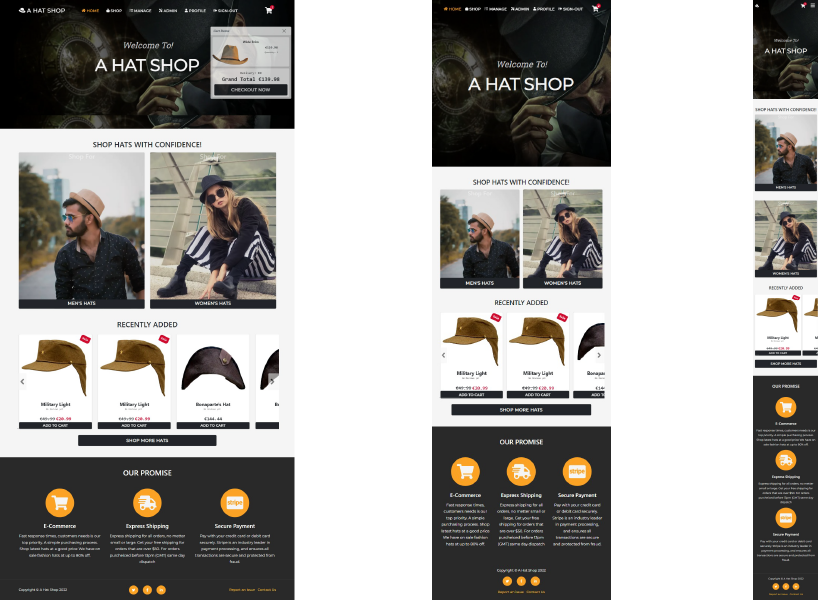
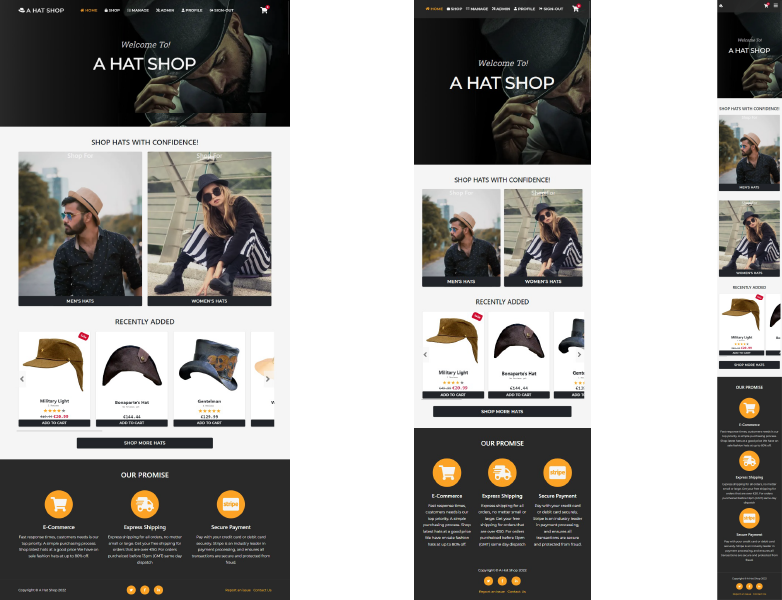
Added new home page layout and google lighthouse results | Added bigger toast shadowa

diff --git a/templates/base.html b/templates/base.html
@@ -58,7 +58,7 @@
     {% if not request.get_full_path == '/cart/' and cart_items and not request.get_full_path == '/checkout/' %}
     <div aria-live="polite" aria-atomic="true">
         <div class="toast-container position-fixed end-0 p-3">
-            <div id="cart_toast" class="toast d-none align-items-center bg-white rounded-3 shadow-sm border-0" role="alert"
+            <div id="cart_toast" class="toast d-none align-items-center bg-white rounded-3 shadow border-0" role="alert"
                 aria-live="assertive" aria-atomic="true">
                 <div class="toast-header rounded-3">
                     <span class="text-italic fw-bolder">Cart Items</span>
@@ -77,7 +77,7 @@
     {% if user_messages %}
     <div aria-live="polite" aria-atomic="true">
         <div class="toast-container position-fixed end-0 p-3">
-            <div id="message-toast" class="toast d-none align-items-center bg-white rounded-3 shadow-sm border-0" role="alert"
+            <div id="message-toast" class="toast d-none align-items-center bg-white rounded-3 shadow border-0" role="alert"
                 aria-live="assertive" aria-atomic="true">
                 <div class="toast-header rounded-3">
                     <span class="text-italic fw-bolder">New Spport messages</span>
@@ -126,17 +126,17 @@
     <!-- Bootstrap core JS-->
     <script src="https://cdn.jsdelivr.net/npm/bootstrap@5.1.3/dist/js/bootstrap.bundle.min.js"></script>
     <!-- Core theme JS-->
-    <script type="text/javascript" src="{% static 'js/base.js' %}"></script>
+    <script src="{% static 'js/base.js' %}"></script>
     <!-- Custom Form Control -->
-    <script type="text/javascript" src="{% static 'js/forms.js' %}"></script>
+    <script src="{% static 'js/forms.js' %}"></script>
     <!-- ustom Cart Toast control -->
     {% if cart_items %}
     <!-- cart toast hower script -->
-    <script type="text/javascript" src="{% static 'js/cart.js' %}"></script>
+    <script src="{% static 'js/cart.js' %}"></script>
     {% endif %}
     {% if user_messages %}
     <!-- Support Mesages toast script-->
-    <script type="text/javascript" src="{% static 'js/messages.js' %}"></script>
+    <script src="{% static 'js/messages.js' %}"></script>
     {% endif %}
 
     <!-- Postload JavaScript content block -->

diff --git a/templates/includes/toasts/message.html b/templates/includes/toasts/message.html
@@ -5,7 +5,7 @@
         {% with message.level as level %}
 
         {% if level == 40 %}
-        <div class="toast show align-items-center rounded-3 bg-white text-white shadow-sm border-0" role="alert"
+        <div class="toast show align-items-center rounded-3 bg-white text-white shadow border-0" role="alert"
             aria-live="assertive" aria-atomic="true">
 
             <div class="toast-header rounded-3">
@@ -20,7 +20,7 @@
         </div>
 
         {% elif level == 30 %}
-        <div class="toast bg-white show align-items-center rounded-3 text-white shadow-sm border-0" role="alert"
+        <div class="toast bg-white show align-items-center rounded-3 text-white shadow border-0" role="alert"
             aria-live="assertive" aria-atomic="true">
 
             <div class="toast-header rounded-3">
@@ -34,7 +34,7 @@
         </div>
 
         {% elif level == 25 %}
-        <div class="toast show align-items-center bg-white rounded-3 shadow-sm border-0" role="alert" aria-live="assertive"
+        <div class="toast show align-items-center bg-white rounded-3 shadow border-0" role="alert" aria-live="assertive"
             aria-atomic="true">
 
             <div class="toast-header rounded-3">
@@ -53,7 +53,7 @@
         </div>
 
         {% else %}
-        <div class="toast show align-items-center rounded-3 bg-white text-white shadow-sm border-0" role="alert"
+        <div class="toast show align-items-center rounded-3 bg-white text-white shadow border-0" role="alert"
             aria-live="assertive" aria-atomic="true">
 
             <div class="toast-header rounded-3">

diff --git a/support/templates/messages/messages.html b/support/templates/messages/messages.html
@@ -21,11 +21,14 @@
             <div class="mb-2">
                 <span class="text-muted small text-italic ">{{ issue }}</span> <br>
                 <span class="text-muted time text-italic ">Order # {{ issue.order.order_number }}</span> <br>
+
+                <!-- If issue is produvt show orderline -->
                 {% if issue.order_line %}
                 <span class="p-0 text-muted time text-italic">Product: {{ issue.order_line }}</span>
                 {% endif %}
             </div>
- 
+
+            <!-- Current issue status -->
             {% if issue.status == 'Resolved' %}
             <p class="m-0 text-success fw-bolder small font-monospace">Ticket Status: {{ issue.status }}</p>
             {% else %}
@@ -35,7 +38,7 @@
                 {% for message in thread_messages %}
 
                 {% if message.user.is_superuser %}
-
+                <!-- Admin messages -->
                 <div class="rounded p-3">
                     <span class="m-0 fw-bolder text-muted text-italic text-capitalize small">{{ message.user.username }}
                     </span> <br>
@@ -45,10 +48,8 @@
                         <p class="message mb-0 font-monospace small">{{ message.message }}</p>
                     </div>
                 </div>
-
-
                 {% else %}
-
+                <!-- User messages -->
                 <div class="rounded p-3">
                     <span class="m-0 fw-bolder text-muted text-italic text-capitalize small">{{ message.user.username }}
                     </span> <br>

diff --git a/support/templates/support/submit.html b/support/templates/support/submit.html
@@ -11,7 +11,7 @@
 {% endblock %}
 {% block content %}
 
-<!-- Product Detail section-->
+<!-- Submit support ticket -->
 <section class="page-section">
 
     <div class="container">
@@ -23,11 +23,13 @@
                 novalidate>
                 {% csrf_token %}
 
+                <!-- Sellect issue field -->
                 {{ form.issue | as_crispy_field }}
 
                 <div id="sellect-product-group" id class="d-none">
                     <label for="sellect-product">Select Product</label>
 
+                    <!-- If product issue show this sellect field -->
                     <select id="sellect-product" name="product" class="select form-control mb-2  fw-bolder">
 
                         <option selected value="">Select Product</option>
@@ -39,6 +41,7 @@
                     </select>
                 </div>
 
+                <!-- Message field -->
                 <div class="fw-bolder font-monospace">
                     {{ form.message | as_crispy_field }}
                 </div>

diff --git a/support/templates/support/contact.html b/support/templates/support/contact.html
@@ -11,12 +11,14 @@
 {% endblock %}
 {% block content %}
 
-<!-- Product Detail section-->
+<!-- Contact email page -->
 <section class="page-section">
     <div class="container">
         <div class="w-container mx-auto">
             <h2 class="text-capitalize"><i class="fas fa-paper-plane"></i> Contact Us</h2>
             <p class="text-muted text-italic">Leave us a message</p>
+
+            <!-- Contact form -->
             <form id="contactForm" class="needs-validation" action="{% url 'contact_view' %}" novalidate method="POST">
                 {% csrf_token %}
 
@@ -61,6 +63,7 @@
                         Message</button></div>
             </form>
 
+            <!-- If user is authenticated show support page link -->
             {% if request.user.is_authenticated %}
             <p class="text-muted text-italic mt-2">
                Or <a class="mt-2" href="{% url 'support' %}">

diff --git a/support/templates/includes/message-toast.html b/support/templates/includes/message-toast.html
@@ -1,5 +1,7 @@
+
+<!-- Support messages toast --> 
 {% if user_messages %}
-<div class="cart-conteiner small-font mb-2 pb-2 shadow-sm rounded-3 bg-white align-items-center">
+<div class="cart-conteiner small-font mb-2 pb-2 shadow rounded-3 bg-white align-items-center">
 
     <!-- Product Description -->
     <div class="col-12">
@@ -21,7 +23,7 @@
 
     </div>
     <div class="col-12 text-center">
-        <a class="btn btn-dark" href="{% url 'messages_view' message.thread.id %}?unread=False">Go to
+        <a class="btn btn-dark w-100" href="{% url 'messages_view' message.thread.id %}?unread=False">Go to
             Messages</a>
     </div>
 

diff --git a/support/templates/support/support.html b/support/templates/support/support.html
@@ -10,14 +10,14 @@
 {% endblock %}
 {% block content %}
 
-<!-- Product Detail section-->
+<!-- General support page -->
 <section class="page-section">
 
     <div class="container">
         <div class="w-container mx-auto">
             <h2 class="text-capitalize"><i class="fas fa-file-signature"></i> Report</h2>
             <p class="text-muted text-italic p-0 m-0">Report a Problem</p>
-
+            <!-- Support form -->
             <form id="support-form" action="{% url 'support' %}" class="form" method="POST" novalidate>
                 {% csrf_token %}
 

diff --git a/home/templates/home/index.html b/home/templates/home/index.html
@@ -94,11 +94,11 @@
 {% endblock %}
 {% block postloadjs %}
 <!-- Custom parallax effects -->
-<script type="text/javascript" src="{% static 'js/parallax.js' %}"></script>
+<script src="{% static 'js/parallax.js' %}"></script>
 
 <!-- Scroll horisontal -->
-<script type="text/javascript" src="{% static 'js/scroll-x.js' %}"></script>
+<script src="{% static 'js/scroll-x.js' %}"></script>
 
 <!-- Scroll position -->
-<script type="text/javascript" src="{% static 'js/scroll-pos.js' %}"></script>
+<script src="{% static 'js/scroll-pos.js' %}"></script>
 {% endblock %}

diff --git a/a_hat_shop/urls.py b/a_hat_shop/urls.py
@@ -17,7 +17,8 @@ from django.contrib import admin
 from django.urls import path, include
 from django.conf import settings
 from django.conf.urls.static import static
-from django.conf.urls import handler400, handler403, handler404, handler500
+from django.conf.urls import handler400,\
+     handler403, handler404, handler500
 
 
 urlpatterns = [
